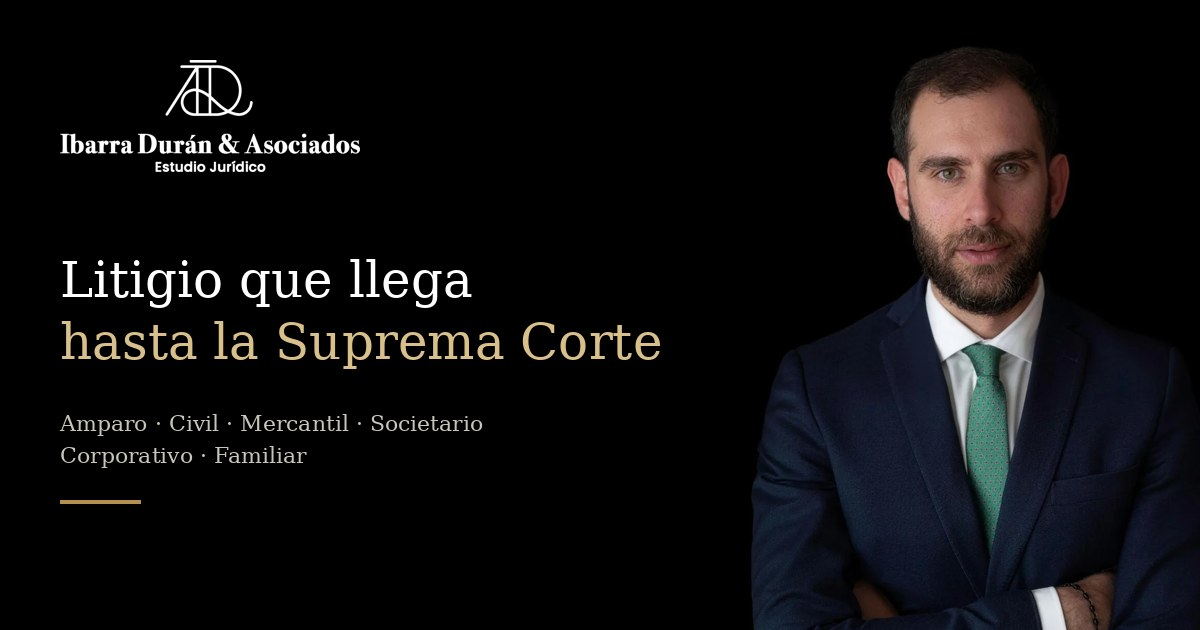
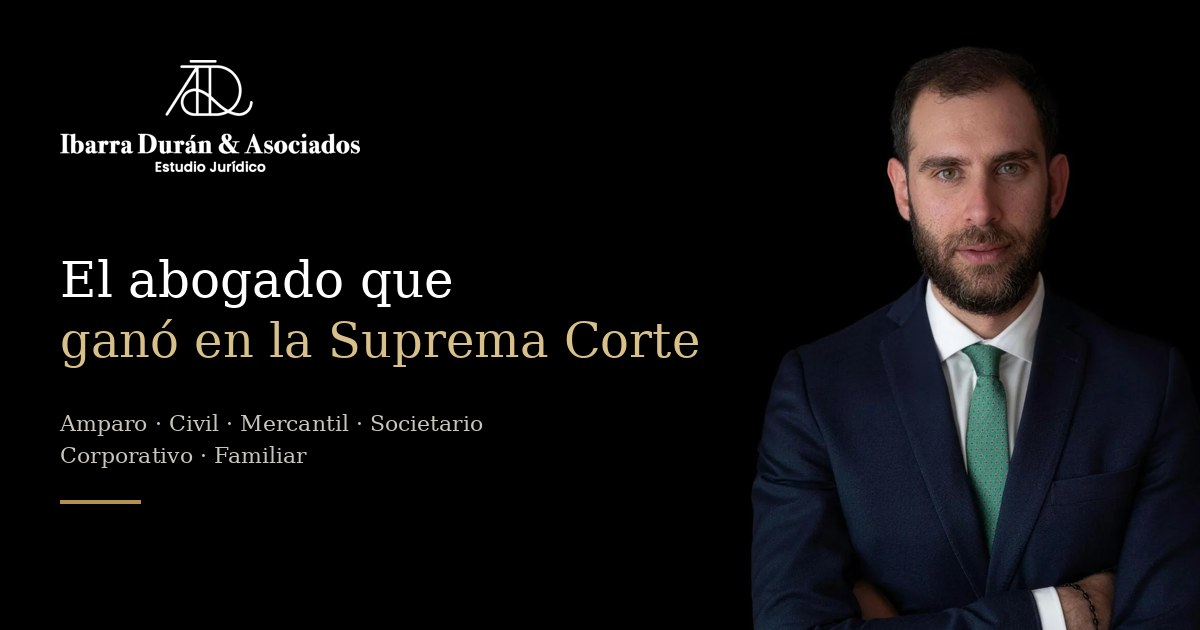
Vista previa al compartir con el nuevo título
Claude-Session: https://claude.ai/code/session_01SbMM43Ed28DmKwMgxiTL8c

Changed region(s): [[0.0308, 0.3921, 0.5858, 0.6032]]

diff --git a/index.html b/index.html
@@ -8,7 +8,7 @@
 <meta name="description" content="Ibarra Durán & Asociados, estudio jurídico en Aguascalientes: amparo, civil, mercantil, societario, corporativo y familiar. Caso ganado ante la Suprema Corte. 5.0 en Google.">
 <meta property="og:type" content="website">
 <meta property="og:title" content="Ibarra Durán & Asociados | Abogados en Aguascalientes">
-<meta property="og:description" content="Litigio que llega hasta la Suprema Corte. Amparo, civil, mercantil, societario, corporativo y familiar.">
+<meta property="og:description" content="El abogado que ganó en la Suprema Corte. Amparo, civil, mercantil, societario, corporativo y familiar.">
 <meta property="og:url" content="https://digitalmediaangels.github.io/ibarra-duran-asociados/">
 <meta property="og:image" content="https://digitalmediaangels.github.io/ibarra-duran-asociados/og.jpg">
 <meta property="og:image:width" content="1200">
